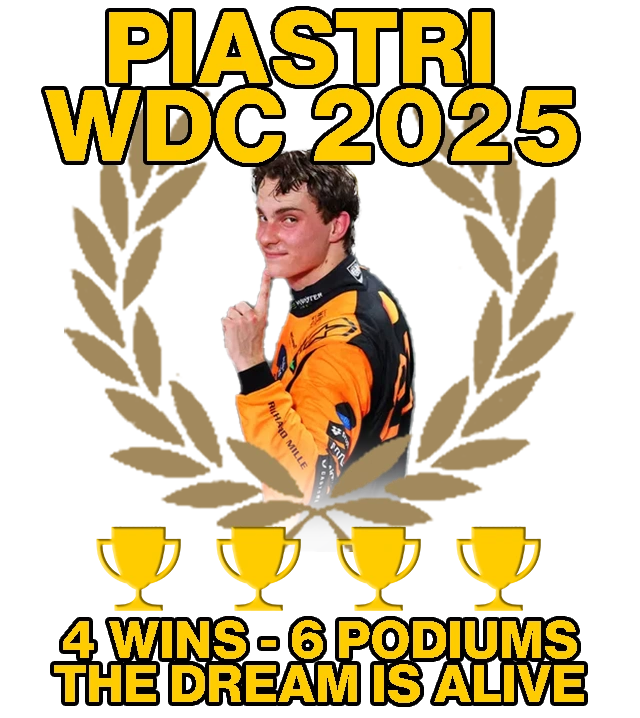
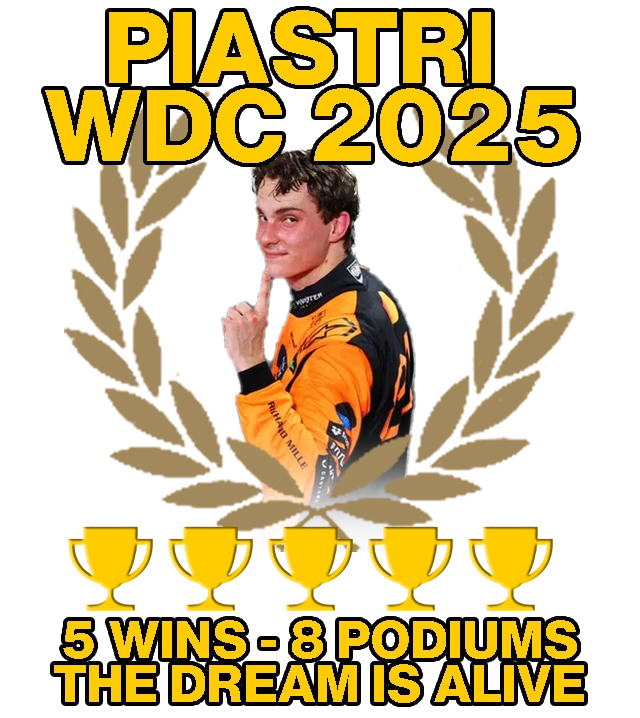
06/01/25 - Revision 1
-Updated news
-Updated Piastri Graphic

Changed region(s): [[0.0938, 0.7354, 0.875, 0.9192]]

diff --git a/pages/main/changelog.html b/pages/main/changelog.html
@@ -18,6 +18,11 @@
                 The Changelog 
             </h1>
 
+            <h2>06/01/25–1 Commit</h2>
+                <li>Updated news</li>
+                <li>Updated Piastri Graphic</li>
+            <h2>05/31/25–1 Commit</h2>
+                <li>Updated news</li>
             <h2>05/25/25–1 Commit</h2>
                 <li>Updated books read</li>
                 <li>Updated camera gear</li>
